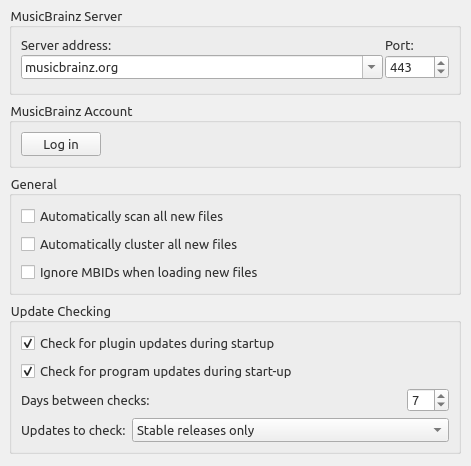
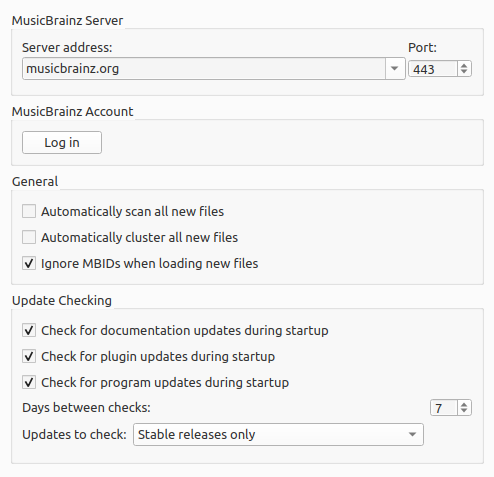
Add documentation for ReadTheDocs checking options

diff --git a/config/options_general.rst b/config/options_general.rst
@@ -43,6 +43,12 @@
 
    If you enable this option Picard will not use MusicBrainz identifiers (MBIDs) stored in the files to automatically load the corresponding MusicBrainz release and match the loaded file to the correct track. Leaving this option disabled is useful when re-processing files that have been previously tagged with incorrect information.
 
+**Check for documentation updates during start-up**
+
+   This option determines whether or not Picard will automatically check for :index:`available versions and languages on ReadTheDocs <pair: configuration; documentation checking>` during startup in order to provide the best match when displaying a help page. If this is disabled, the latest version of the documentation will be displayed in English in your web browser.
+
+   If the option is disabled, a popup message will be displayed during startup asking if you want to enable the documentation checking. The message also includes an option to disable the popup from displaying in the future. The popup can also be enabled or disabled through a setting in the :doc:`options_interface` section.
+
 **Check for plugin updates during start-up**
 
    This option determines whether or not Picard will automatically check for :index:`plugin updates <pair: configuration; plugin update checking>` during startup. If this is enabled and an update to an installed plugin is available, a popup message will be displayed.

diff --git a/config/options_interface.rst b/config/options_interface.rst
@@ -55,6 +55,10 @@
 
    When this is enabled, Picard will show a dialog intended for new users when you start the program. This displays a warning about the consequences of saving files, along with a suggestion for minimizing the impact until you have confirmed that your configuration produces the expected results. It also provides a link to the on-line documentation.
 
+**Show documentation update checking disabled dialog**
+
+   When this is enabled, Picard will show a dialog during startup to warn you if the documentation checking on ReadTheDocs is disabled. The documentation checking can be enabled or disabled through a setting in the :doc:`options_general` section.
+
 **Show a quit confirmation dialog for unsaved changes**
 
    When this is enabled, Picard will show a dialog when you try to quit the program with unsaved files loaded. This may help prevent accidentally losing tag changes you've made, but not yet saved.
